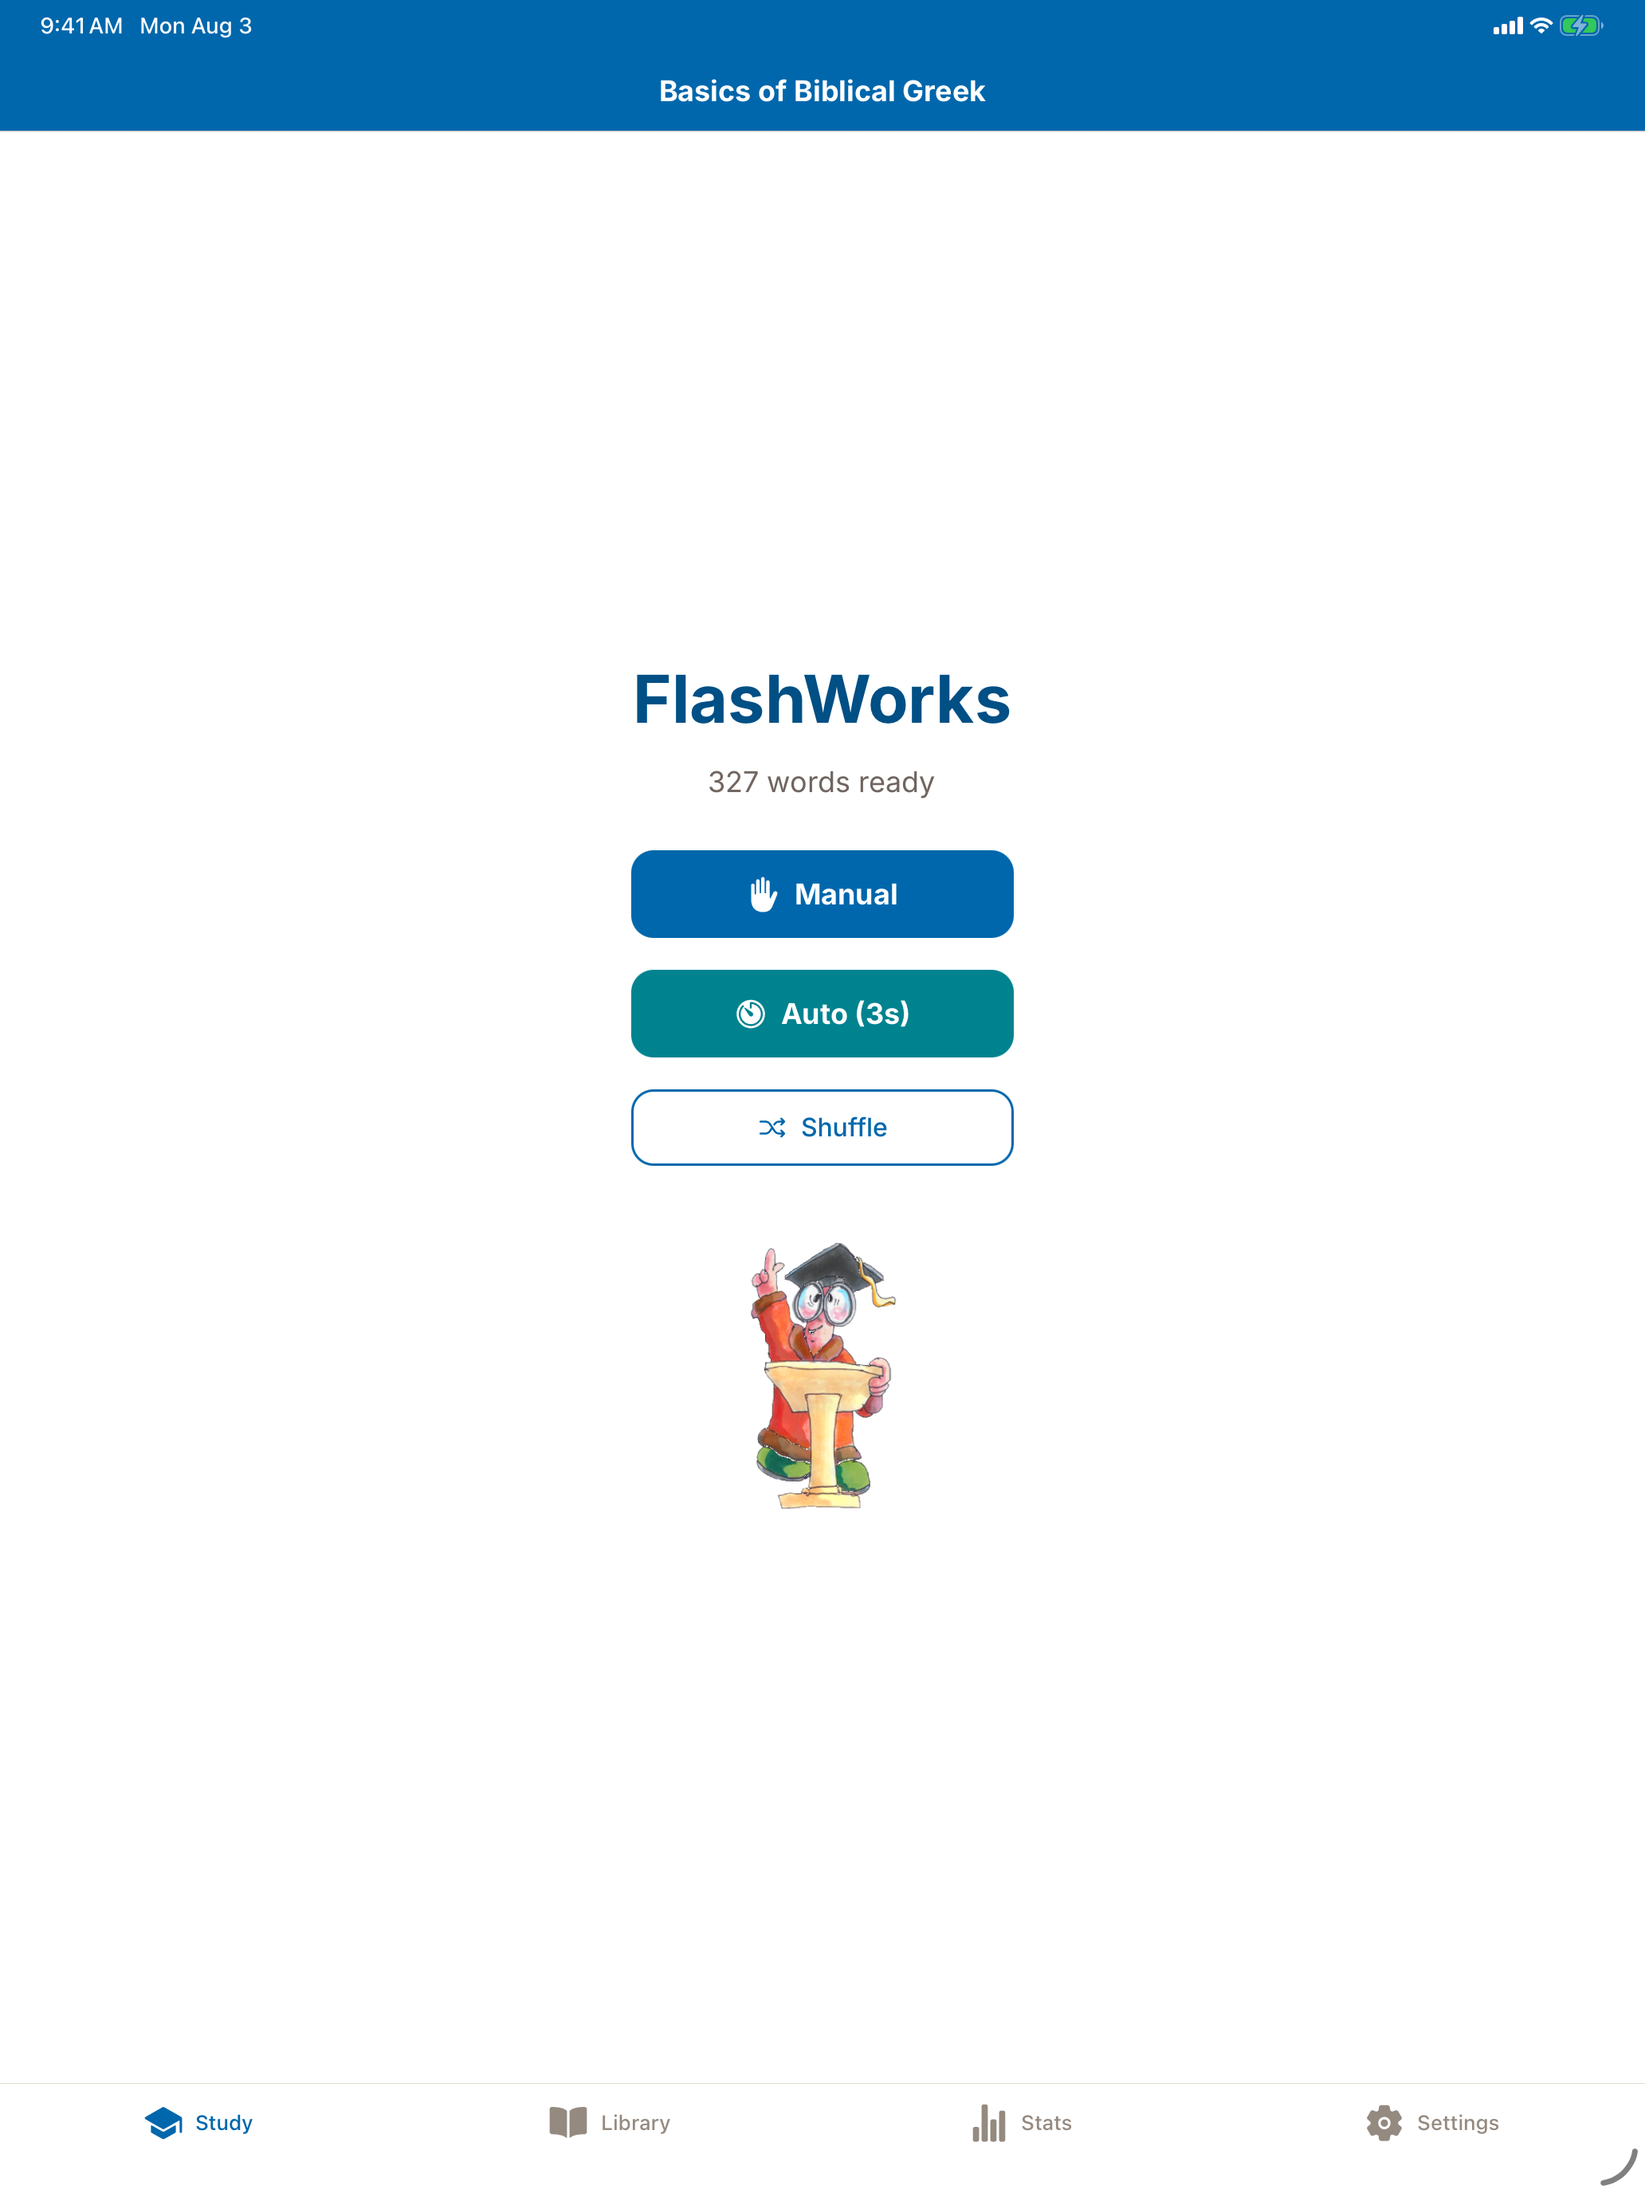
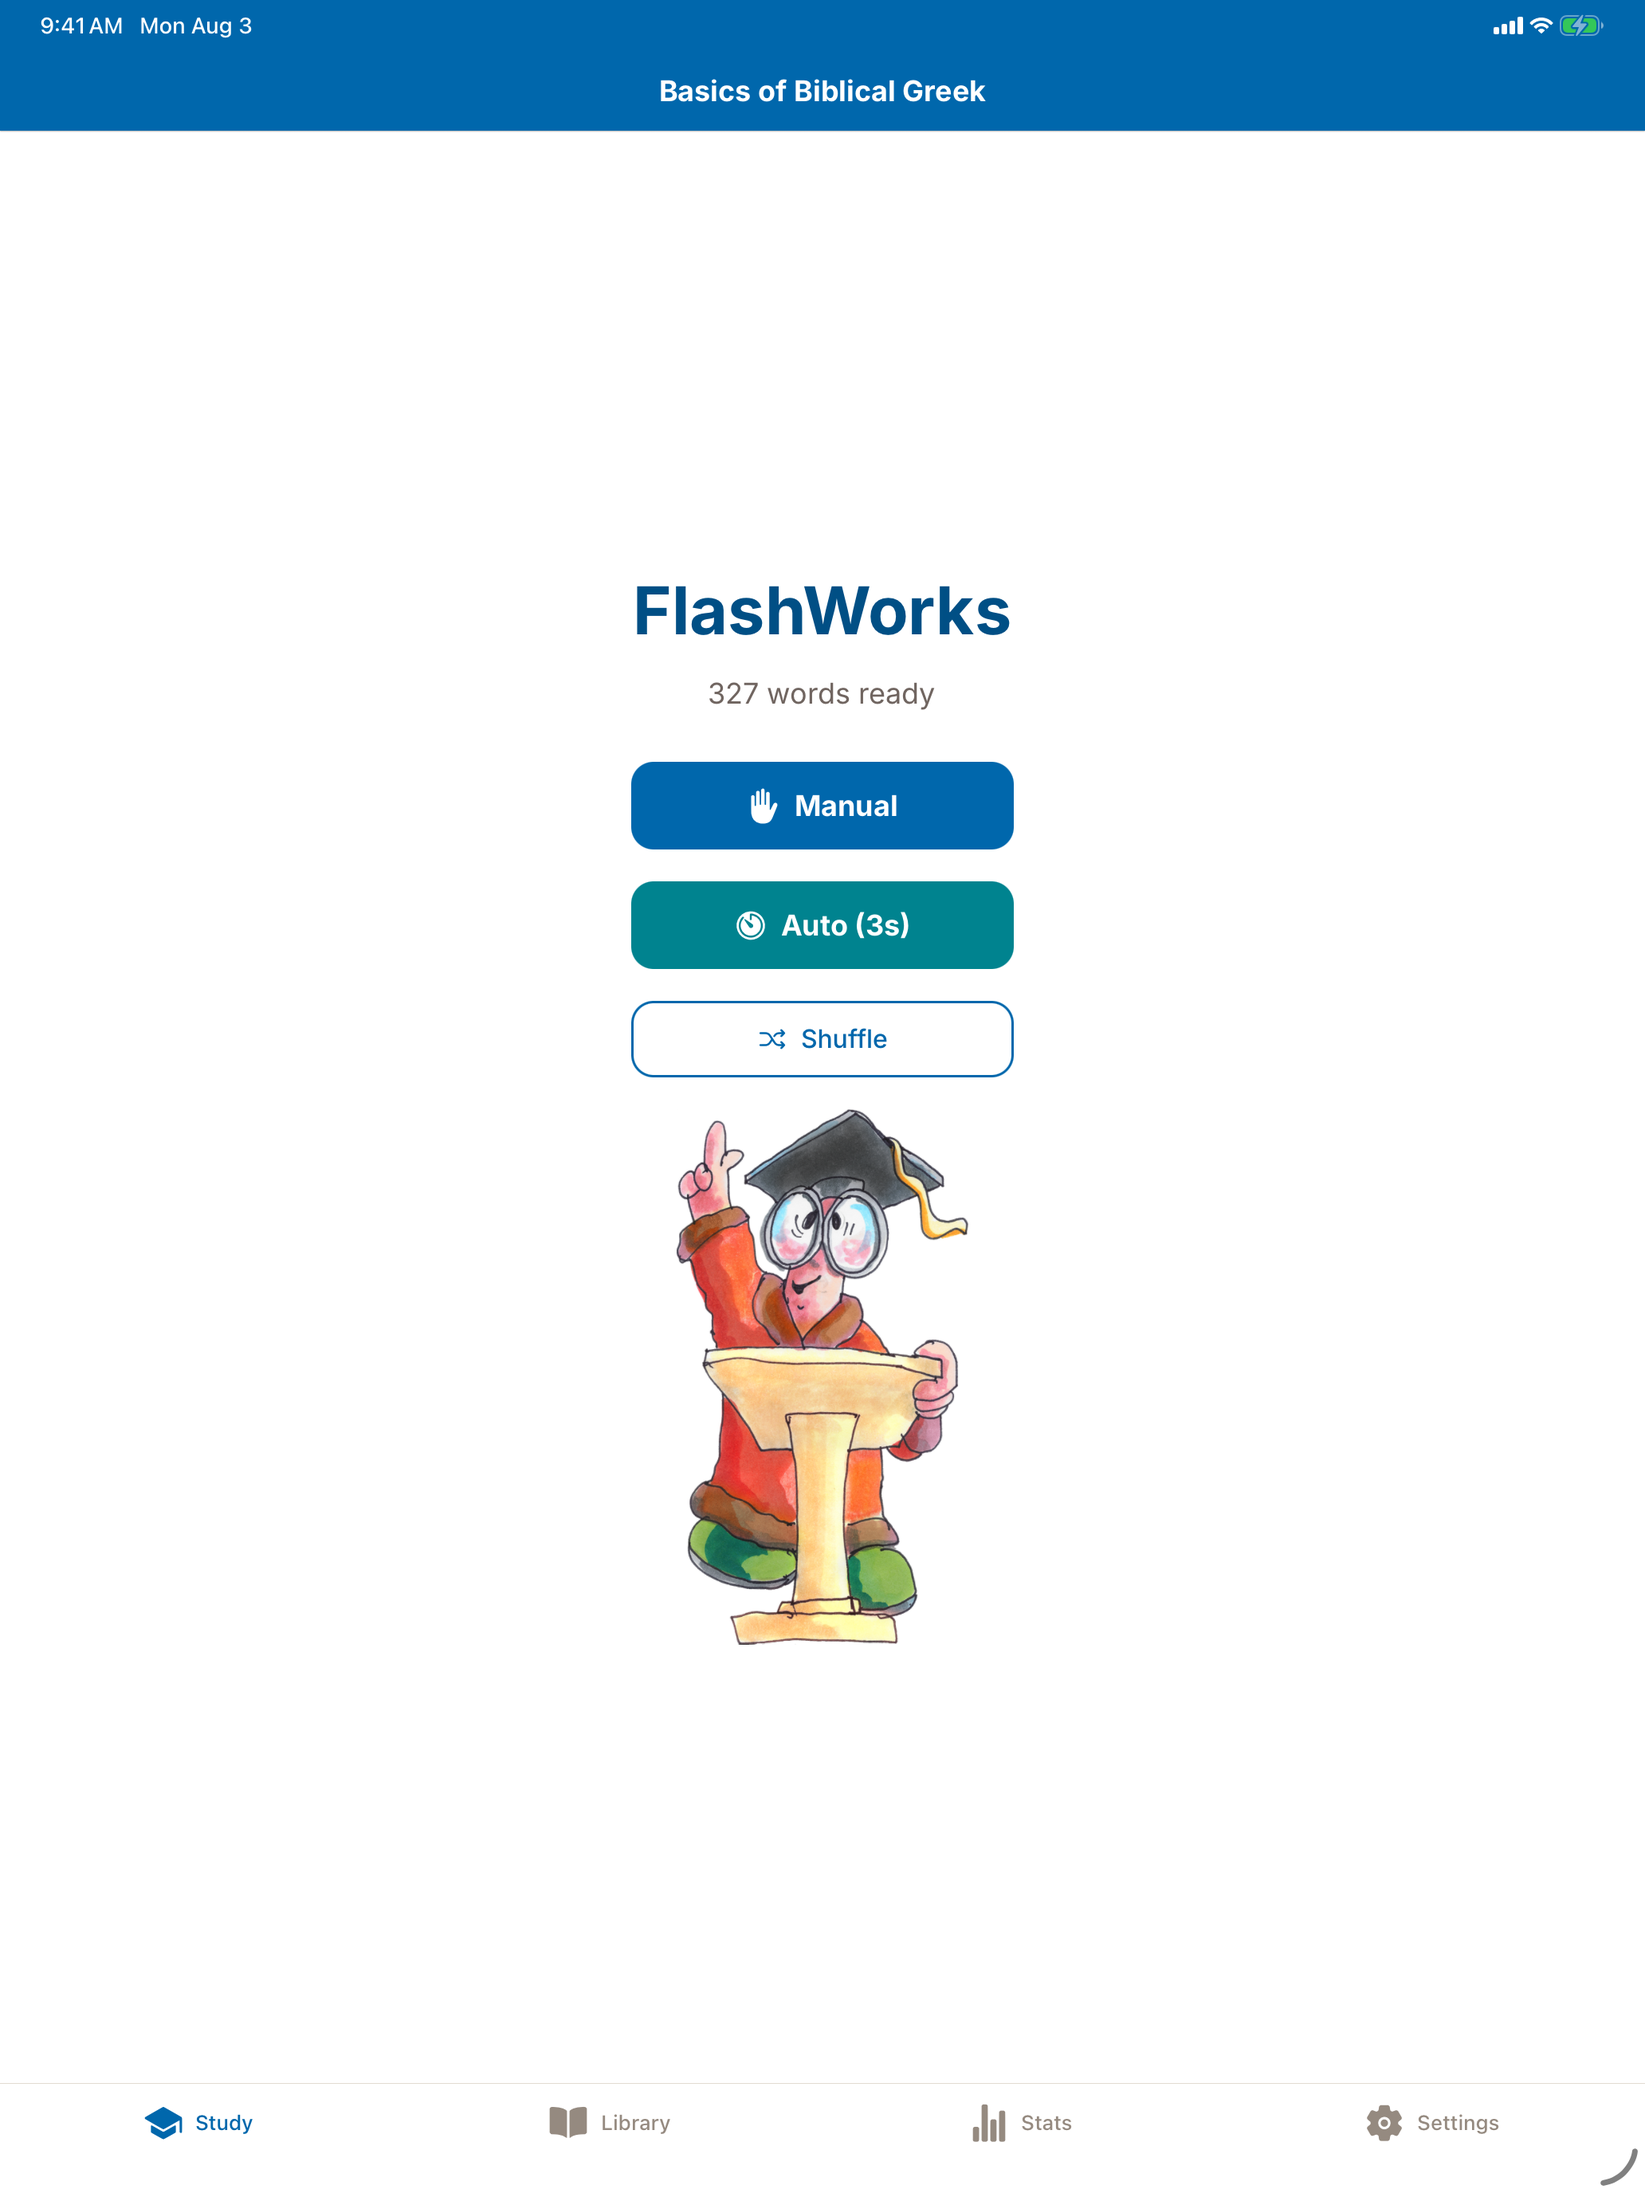
Double the professor on the tablet startup screen, at full resolution
The idle screen drew the professor from splash-icon.png — 512x512 with a lot
of transparent padding, so the figure only rendered at ~92x168pt. Doubling
that from the same source would have needed 672px of figure height at @2x
from 382px of actual artwork, i.e. a 1.76x upscale, and it would have looked
soft.

Added professor-large.png instead, derived from the original 1080x2005 art:
cropped to its alpha bounding box, then Lanczos-downscaled to 450x826 and
saved full-colour (no quantizing — watercolour gradients band badly). At the
183x336pt render box an iPad needs 366x672px, so this is always a downscale,
which is the case that stays sharp. 548 KB.

Tablets only; phones keep the original artwork and size. Verified by pixel-
diffing the iPhone home screen against the committed screenshot: the only
delta is status-bar chrome, so iPhone app content is unchanged and its
screenshot stays valid.

The tablet test uses min(width,height) >= 700 rather than the classic 768,
which would have misclassified an iPad mini (744pt) as a phone. Measuring the
shortest edge instead of Platform.isPad means Android tablets get this too.

iPad 01-study-home re-shot to match. Tests (39) and tsc pass.

Changed region(s): [[0.3721, 0.25, 0.6202, 0.75]]

diff --git a/app/(tabs)/study.tsx b/app/(tabs)/study.tsx
@@ -24,6 +24,11 @@ export default function StudyScreen() {
   const { colors } = useTheme();
   const { width, height } = useWindowDimensions();
   const isLandscape = width > height;
+  // Tablet check by shortest edge rather than Platform.isPad, so Android
+  // tablets get the same treatment when that build happens. 700 sits well
+  // above the widest iPhone (~440pt) and below the iPad mini (744pt) — the
+  // classic 768 breakpoint would wrongly treat a mini as a phone.
+  const isTablet = Math.min(width, height) >= 700;
   const { isReady } = useDatabase();
   const { active } = usePreferences();
   const haptics = useHaptics();
@@ -234,9 +239,17 @@ export default function StudyScreen() {
           )}
 
           {!isLandscape && (
+            // Tablets get the professor at twice the size, drawn from a
+            // higher-resolution, tightly-cropped source so it stays sharp —
+            // splash-icon.png is padded and only 512px, which would go soft
+            // at this scale. Phones keep the original artwork and size.
             <Image
-              source={require('@/assets/images/splash-icon.png')}
-              style={styles.professor}
+              source={
+                isTablet
+                  ? require('@/assets/images/professor-large.png')
+                  : require('@/assets/images/splash-icon.png')
+              }
+              style={isTablet ? styles.professorTablet : styles.professor}
               resizeMode="contain"
             />
           )}
@@ -536,6 +549,13 @@ const styles = StyleSheet.create({
   professor: {
     width: 225,
     height: 225,
+    marginTop: spacing.xl,
+  },
+  // Twice the phone's rendered figure (~92x168pt inside the padded 225 box).
+  // Dimensions match professor-large.png's 0.545 aspect so nothing is letterboxed.
+  professorTablet: {
+    width: 183,
+    height: 336,
     marginTop: spacing.xl,
   },
   professorLandscape: {
